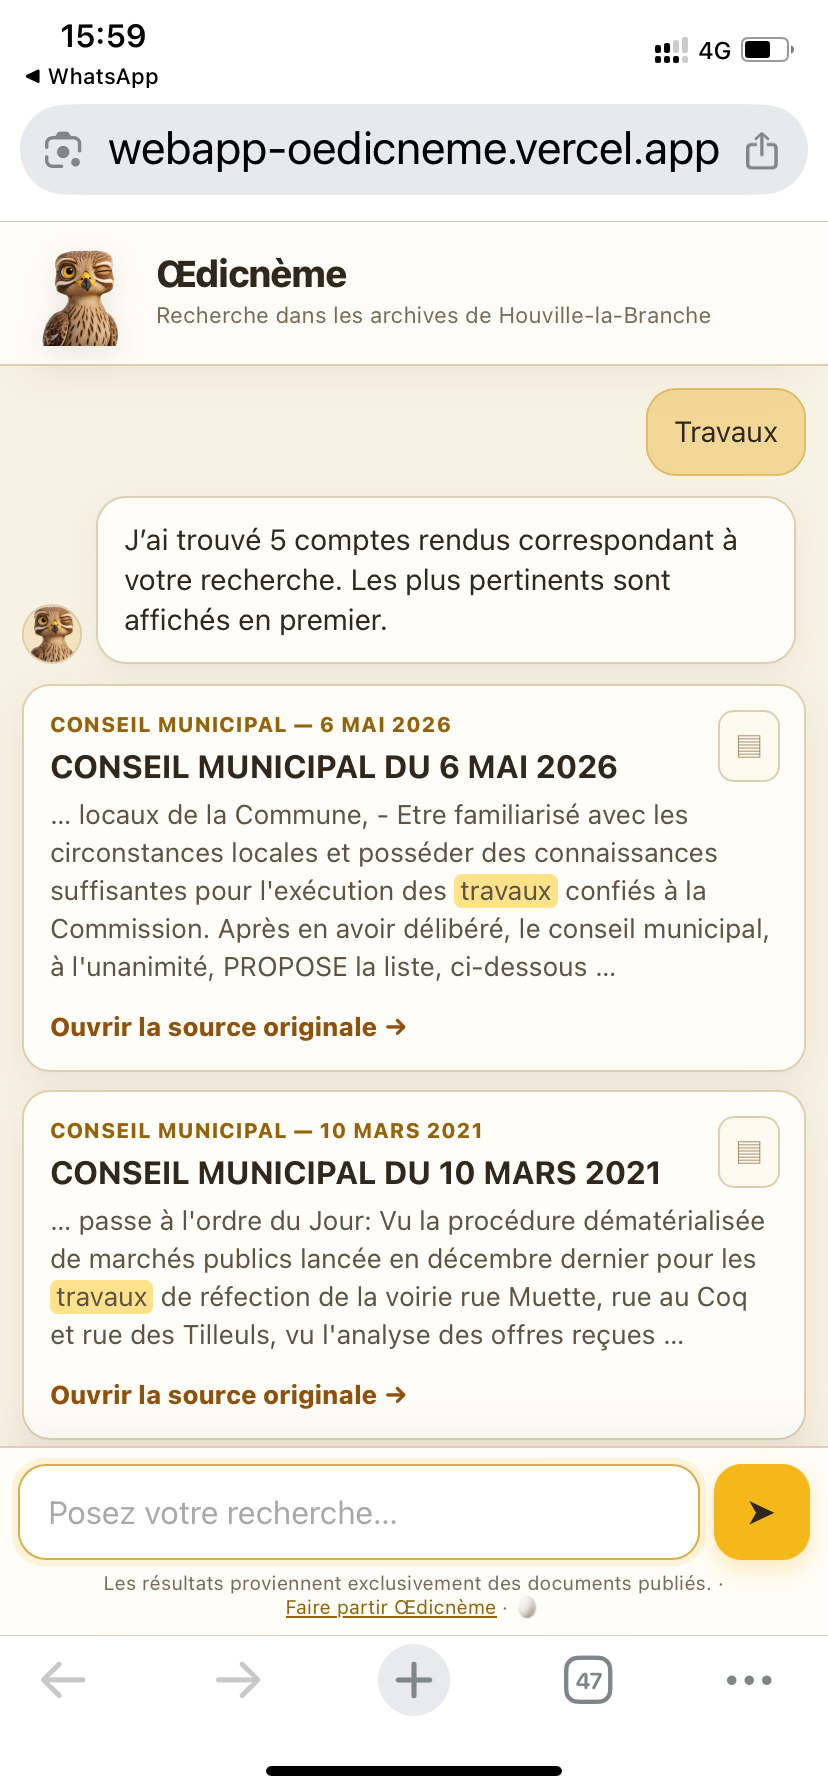
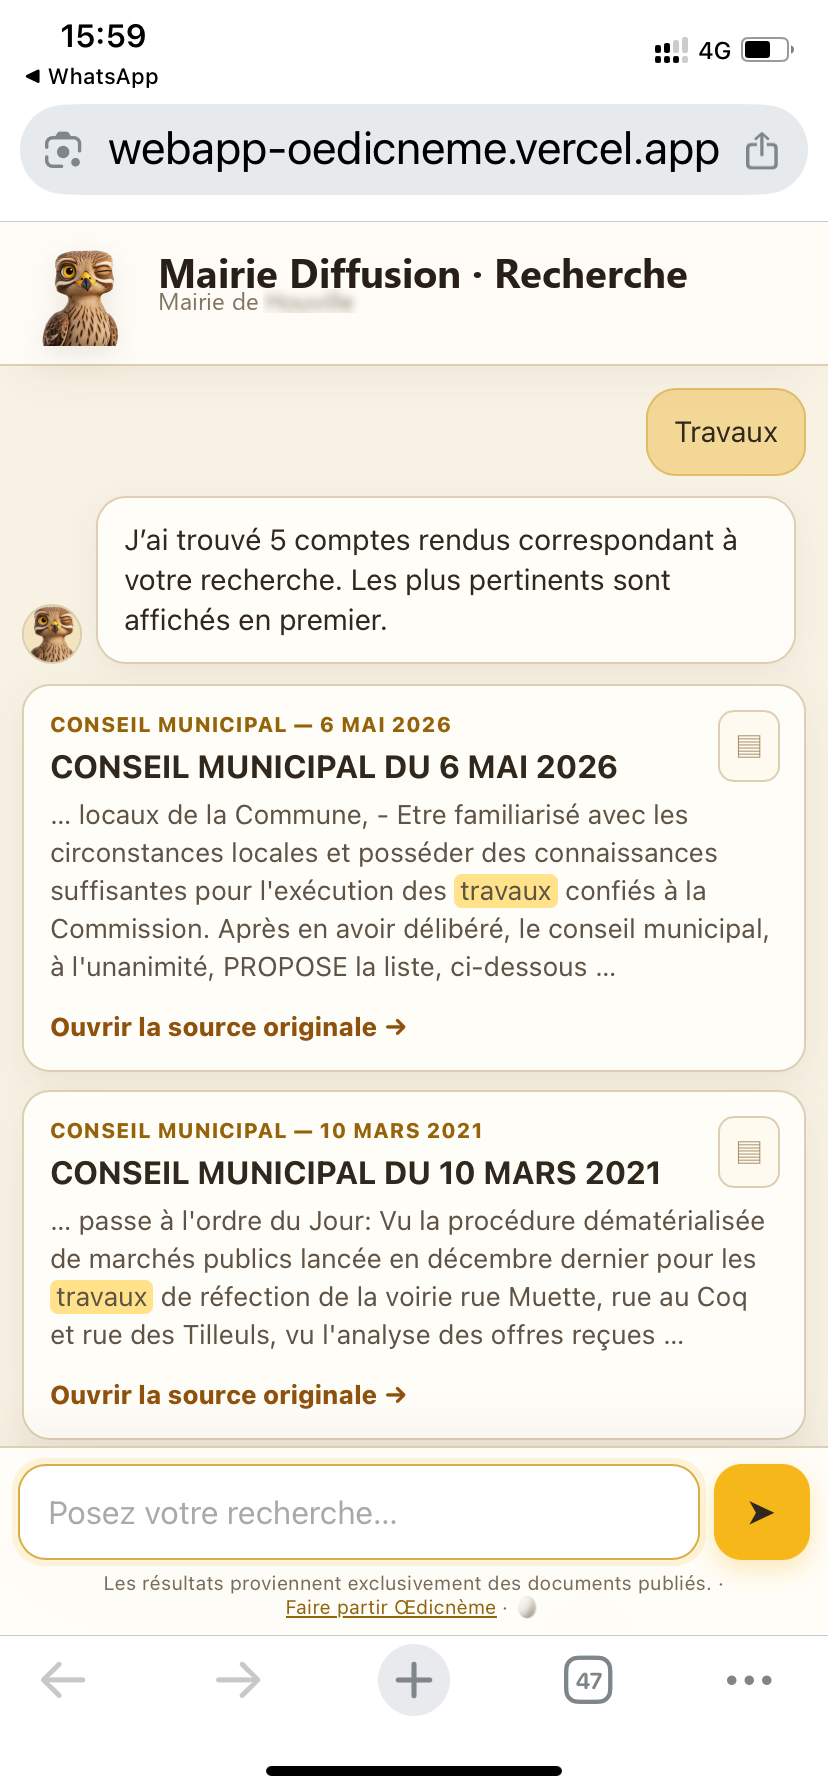
Rebrand Œdicnème module as "Mairie Diffusion · Recherche" on landing page
Update the documentary search section copy so the visible commercial
name is Mairie Diffusion · Recherche instead of Œdicnème, and retouch
the real search screenshot's header text to match (owl mascot and
search results untouched). Œdicnème remains the internal module name.

Changed region(s): [[0.1812, 0.125, 0.5737, 0.1875], [0.6039, 0.125, 0.8454, 0.1875]]

diff --git a/landing-page/index.html b/landing-page/index.html
@@ -112,8 +112,16 @@
   .oed-phone-crop{overflow:hidden; aspect-ratio:2/3; max-width:410px}
   .oed-phone{position:relative; width:100%; aspect-ratio:932/1868}
   .oed-phone-frame{position:absolute; inset:0; width:100%; height:100%; display:block; z-index:2}
-  .oed-phone-shot{position:absolute; top:0; left:0; width:100%; height:auto; display:block}
-  .oed-label{font-weight:700; font-size:13px; color:var(--oed-accent); margin:0 0 14px}
+  .oed-phone-shot-wrap{position:absolute; inset:0; overflow:hidden}
+  .oed-shot-status{position:relative; width:100%; height:3.67%; overflow:hidden}
+  .oed-shot-status img{position:absolute; top:0; left:0; width:100%; height:auto; display:block}
+  .oed-shot-content{position:relative; width:100%; height:calc(100% - 3.67%); overflow:hidden}
+  .oed-shot-content img{
+    position:absolute; top:0; left:0; width:100%; height:auto; display:block;
+    transform:translateY(-12%);
+  }
+  .oed-label{font-weight:700; font-size:13px; color:var(--oed-accent); margin:0 0 4px}
+  .oed-sous-label{font-size:12px; color:var(--texte-doux); margin:0 0 14px}
   .oed-inner h2{color:var(--oed-texte)}
   .oed-sep{display:block; width:40px; height:2px; background:var(--oed-accent); opacity:.7; margin:24px 0}
   .oed-texte .fort{color:var(--oed-texte)}
@@ -408,21 +416,29 @@
       <div class="oed-phone-crop">
         <div class="oed-phone">
           <div class="phone-screen">
-            <img class="oed-phone-shot" src="images/oedicneme-travaux.png" alt="Recherche du mot « travaux » dans les archives : comptes rendus du conseil municipal avec le passage surligné et lien vers le document original">
+            <div class="oed-phone-shot-wrap">
+              <div class="oed-shot-status">
+                <img src="images/oedicneme-travaux.png" alt="">
+              </div>
+              <div class="oed-shot-content">
+                <img src="images/oedicneme-travaux.png" alt="Recherche du mot « travaux » dans les archives : comptes rendus du conseil municipal avec le passage surligné et lien vers le document original">
+              </div>
+            </div>
           </div>
           <img class="oed-phone-frame" src="images/phone-frame.png" alt="">
         </div>
       </div>
       <div class="oed-texte">
-        <p class="oed-label">Œdicnème — module optionnel de recherche documentaire</p>
+        <p class="oed-label">Mairie Diffusion · Recherche</p>
+        <p class="oed-sous-label">Module optionnel de recherche documentaire</p>
         <h2>Une question, une réponse,<br>sa source</h2>
         <p>Un habitant recherche « travaux ».</p>
-        <p>En quelques secondes, Œdicnème retrouve les documents qui en parlent, affiche le passage correspondant et permet d'ouvrir le document original.</p>
+        <p>En quelques secondes, le module retrouve les documents qui en parlent, affiche le passage correspondant et permet d'ouvrir le document original.</p>
         <span class="oed-sep" aria-hidden="true"></span>
         <p class="fort">Les documents restent ceux de la commune.</p>
-        <p>Œdicnème travaille uniquement à partir des documents déjà publiés par la commune. Il en facilite l'accès et la recherche.</p>
+        <p>Le module travaille uniquement à partir des documents déjà publiés par la commune. Il en facilite l'accès et la recherche.</p>
         <p>Ce module est optionnel. Il peut être activé, par exemple, pour les comptes rendus du conseil municipal et les bulletins municipaux déjà publiés sur votre site.</p>
-        <p class="oed-mention">Les couleurs et la mascotte peuvent être adaptées à l'identité de votre commune.</p>
+        <p class="oed-mention">Les couleurs de l'interface peuvent être adaptées à l'identité de votre commune.</p>
       </div>
     </div>
   </section>
